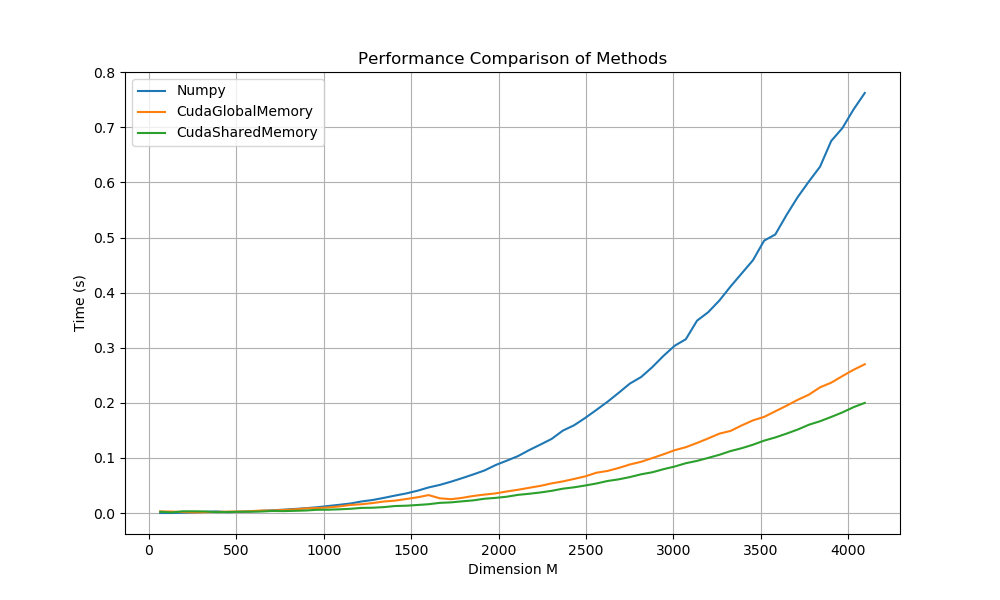
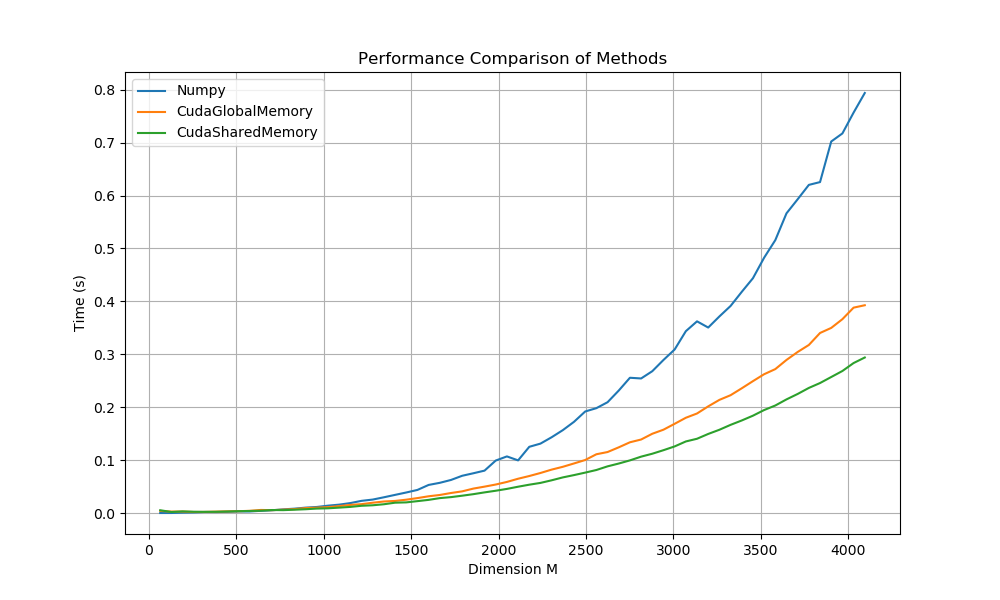
work on non-square sharedmem, work on testbench_alt

Changed region(s): [[0.093, 0.15, 0.899, 0.87], [0.093, 0.12, 0.124, 0.18], [0.093, 0.21, 0.124, 0.24]]

diff --git a/cuda/ex5/matmul.py b/cuda/ex5/matmul.py
@@ -76,7 +76,7 @@ class CudaJit(DotProduct):
         self.TPB = (16, 16) # threads per block
         self.bpgx = (self._dim_m + self.TPB[0] - 1) // self.TPB[0] # blocks per grid x
         self.bpgy = (self._dim_n + self.TPB[1] - 1) // self.TPB[1] # blocks per grid y
-        self.BPG = (self.bpgx, self.bpgy)
+        self.BPG = (self.bpgx, self.bpgy) # (dim/bpgx, dim/bpgy)
     
     def run(self): # Override run method from parent class
         dA = cuda.to_device(self._A)
@@ -99,7 +99,7 @@ class CudaGlobalMemory(CudaJit):
             C[x, y] = sum
 
 
-class CudaSharedMemory(CudaJit):
+class CudaSharedMemorySquare(CudaJit):
     @staticmethod
     @cuda.jit
     def _dot(A, B, C):
@@ -146,4 +146,44 @@ class CudaSharedMemory(CudaJit):
             cuda.syncthreads()
         
         C[x, y] = tmp
+
+class CudaSharedMemoryGeneral(CudaJit):
+    @staticmethod
+    @cuda.jit
+    def _dot(A, B, C):
+        """
+        Ref:
+        https://stackoverflow.com/questions/64197780/how-to-generalize-fast-matrix-multiplication-on-gpu-using-numba/64198479#64198479
+        https://github.com/numba/numba/blob/556545c5b2b162574c600490a855ba8856255154/numba/cuda/tests/doc_examples/test_matmul.py 
+        """
+        TPB = 16
+        sA = cuda.shared.array(shape=(TPB, TPB), dtype=float32)
+        sB = cuda.shared.array(shape=(TPB, TPB), dtype=float32)
+
+        # (16, 16)
+        x, y = cuda.grid(2)
+
+        tx = cuda.threadIdx.x
+        ty = cuda.threadIdx.y
+        bpg = cuda.gridDim.x
+
+        sum = 0.0
+        for i in range(bpg):
+            sA[ty, tx] = 0
+            sB[ty, tx] = 0
+
+            if y < A.shape[0] and (tx + i * TPB) < A.shape[1]:
+                sA[ty, tx] = A[y, tx + i * TPB]
+            if x < B.shape[1] and (ty + i * TPB) < B.shape[0]:
+                sB[ty, tx] = B[ty + i * TPB, x]
+
+            cuda.syncthreads()
+
+            for j in range(TPB):
+                sum += sA[ty, j] * sB[j, tx]
+
+            cuda.syncthreads()
+        
+        if y < C.shape[0] and x < C.shape[1]:
+            C[y, x] = sum
 

diff --git a/cuda/ex5/testbench.py b/cuda/ex5/testbench.py
@@ -87,16 +87,26 @@ class Testbench_alt():
         
         for method in self._methods:
             self._report.append( [] ) # list of empty lists
-            
-        
+
+        for idx, method in enumerate(self._methods):
+            self._report[idx][0] = method.__name__
+
         for dim in self._dims:
             A = np.random.random(size=(dim[0], dim[2])).astype(np.float32)
             B = np.random.random(size=(dim[2], dim[1])).astype(np.float32)
             C = np.zeros(shape=(dim[0], dim[1]), dtype=np.float32)
-            expectation = mat.Numpy(A, B, C).run()
+            validation = mat.Numpy(A, B, C.copy())
+            validation.run()
+            expectation = validation.get_result()
                              
             for idx, method in enumerate(self._methods):
                 instance = method(A, B, C)
                 start_time = time.time()
                 instance.run()
                 elapsed_time = start_time - time.time()
+
+                result = instance.get_result()
+                # [ NAME, LIST_DIMS, LIST_PASSFAILS, LIST_TIMES ]
+                self._report[idx][1].append( dim )
+                self._report[idx][2].append( self._verify(result, expectation) )
+                self._report[idx][3].append( elapsed_time )

diff --git a/cuda/ex5/utils.py b/cuda/ex5/utils.py
@@ -58,5 +58,5 @@ def printout(results):
     for idx, dim in enumerate(dims):
         for result in results:
             if result[1][idx] == dim:
-                print(f"Method: {result[0]:<{20}}, dims: {str(result[1][idx]):<{20}}, pass(1)/fail(0): {result[2][idx]},\t time (s): {result[3][idx]}")
+                print(f"Method: {result[0]:<{26}}, dims: {str(result[1][idx]):<{20}}, pass(1)/fail(0): {result[2][idx]},\t time (s): {result[3][idx]}")
                 

diff --git a/cuda/ex5/main.py b/cuda/ex5/main.py
@@ -9,7 +9,7 @@ import utils as utils
 # Dim C: (M, N)
 
 def main():
-    methods = [ mat.Numpy, mat.CudaGlobalMemory, mat.CudaSharedMemory ]
+    methods = [ mat.Numpy, mat.CudaSharedMemoryGeneral ]
     dims = [ (256, 512, 512), (512, 256, 512), (512, 512, 256) ]
 
     test = tb.Testbench(methods, dims)
